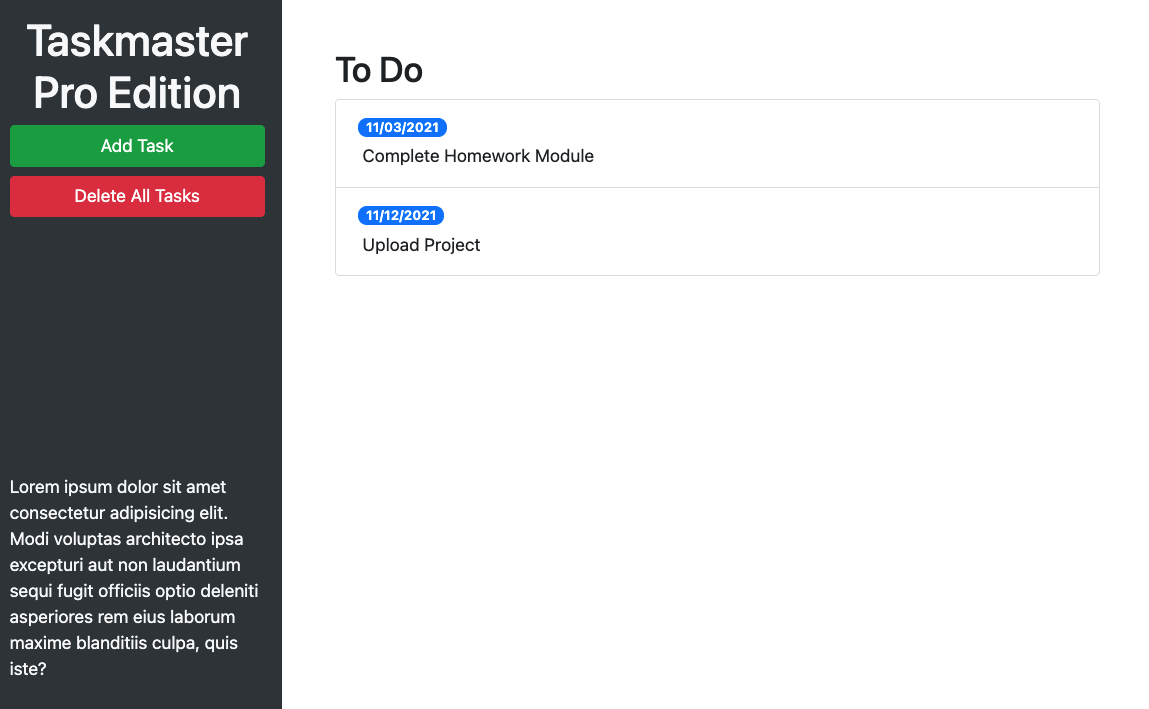
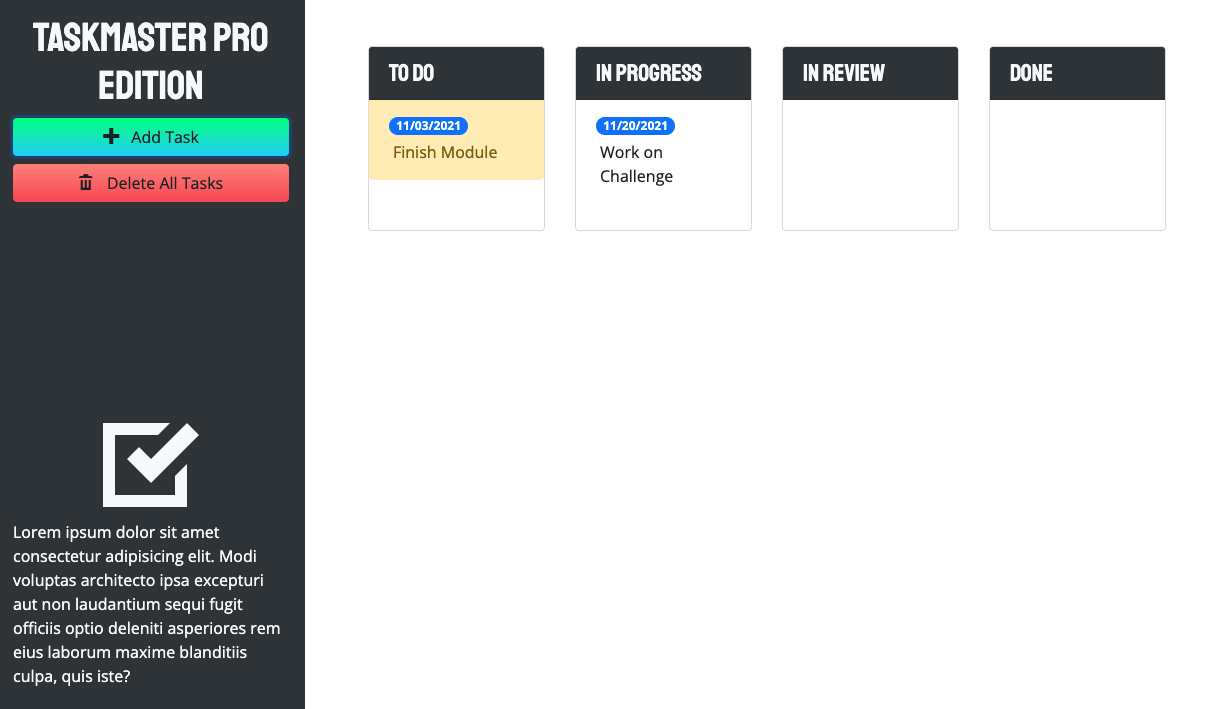
UX enhancements

Changed region(s): [[0.0, 0.0, 0.9748, 1.0]]

diff --git a/index.html b/index.html
@@ -15,6 +15,16 @@
       href="https://cdnjs.cloudflare.com/ajax/libs/jqueryui/1.12.1/themes/base/jquery-ui.min.css"
     />
 
+    <link
+      href="https://fonts.googleapis.com/css2?family=Open+Sans:wght@400;700&family=Staatliches&family=Zen+Maru+Gothic&display=swap"
+      rel="stylesheet"
+    />
+
+    <link
+      rel="stylesheet"
+      href="https://cdnjs.cloudflare.com/ajax/libs/open-iconic/1.1.1/font/css/open-iconic-bootstrap.min.css"
+    />
+
     <link rel="stylesheet" href="./assets/css/style.css" />
     <title>Taskmaster Pro</title>
   </head>
@@ -32,19 +42,34 @@
           p-4 p-lg-3
         "
       >
-        <h1 class="text-center">Taskmaster Pro Edition</h1>
+        <h1 class="text-center">
+          <span class="oi oi-task d-inline d-lg-none"></span>
+          Taskmaster Pro Edition
+        </h1>
         <button
           id="create-task"
-          class="btn btn-block btn-success"
+          class="btn btn-block btn-add"
           data-toggle="modal"
           data-target="#task-form-modal"
         >
+          <span class="oi oi-plus mr-2"></span>
           Add Task
         </button>
-        <button id="remove-tasks" class="btn btn-block btn-danger">
+        <button id="remove-tasks" class="btn btn-block btn-delete">
+          <span class="oi oi-trash mr-2"></span>
           Delete All Tasks
         </button>
-        <p class="mt-auto d-none d-lg-block">
+        <span
+          class="
+            oi oi-task
+            display-1
+            text-center
+            mb-2
+            d-none d-lg-block
+            mt-auto
+          "
+        ></span>
+        <p class="d-none d-lg-block">
           Lorem ipsum dolor sit amet consectetur adipisicing elit. Modi voluptas
           architecto ipsa excepturi aut non laudantium sequi fugit officiis
           optio deleniti asperiores rem eius laborum maxime blanditiis culpa,
@@ -91,8 +116,9 @@
           <!-- done end -->
         </div>
 
-        <div id="trash" class="mt-auto">
-          <div class="w-100 bg-danger p-3 text-center text-light display-4">
+        <div class="mt-auto overflow-hidden" id="trash">
+          <div class="w-100 p-3 text-center bottom-trash">
+            <span class="oi oi-trash"> </span>
             Drop Here to Remove
           </div>
         </div>
@@ -144,14 +170,10 @@
             </form>
           </div>
           <div class="modal-footer">
-            <button
-              type="button"
-              class="btn btn-secondary"
-              data-dismiss="modal"
-            >
+            <button type="button" class="btn btn-close" data-dismiss="modal">
               Close
             </button>
-            <button type="button" class="btn btn-primary">Save Task</button>
+            <button type="button" class="btn btn-save">Save Task</button>
           </div>
         </div>
       </div>

diff --git a/assets/js/script.js b/assets/js/script.js
@@ -48,12 +48,8 @@ var auditTask = function (taskEl) {
   // get date from task element
   var date = $(taskEl).find("span").text().trim();
 
-  console.log(date);
-
   // convert to moment object at 5:00pm
   var time = moment(date, "L").set("hour", 17);
-
-  console.log(time);
 
   // remove any old classes from element
   $(taskEl).removeClass("list-group-item-warning list-group-item-danger");
@@ -74,16 +70,18 @@ $(".card .list-group").sortable({
   tolerance: "pointer",
   helper: "clone",
   activate: function (event, ui) {
-    console.log(ui);
+    $(this).addClass("dropover");
+    $(".bottom-trash").addClass("bottom-trash-drag");
   },
   deactivate: function (event, ui) {
-    console.log(ui);
+    $(this).removeClass("dropover");
+    $(".bottom-trash").removeClass("bottom-trash-drag");
   },
   over: function (event) {
-    console.log(event);
+    $(event.target).addClass("dropover-active");
   },
   out: function (event) {
-    console.log(event);
+    $(event.target).removeClass("dropover-active");
   },
   update: function () {
     var tempArr = [];
@@ -106,9 +104,6 @@ $(".card .list-group").sortable({
     tasks[arrName] = tempArr;
     saveTasks();
   },
-  stop: function (event) {
-    $(this).removeClass("dropover");
-  },
 });
 
 // trash icon can be dropped onto
@@ -118,12 +113,14 @@ $("#trash").droppable({
   drop: function (event, ui) {
     // remove dragged element from the dom
     ui.draggable.remove();
+    $(".bottom-trash").removeClass("bottom-trash-active");
   },
   over: function (event, ui) {
     console.log(ui);
+    $(".bottom-trash").addClass("bottom-trash-active");
   },
   out: function (event, ui) {
-    console.log(ui);
+    $(".bottom-trash").removeClass("bottom-trash-active");
   },
 });
 
@@ -146,7 +143,7 @@ $("#task-form-modal").on("shown.bs.modal", function () {
 });
 
 // save button in modal was clicked
-$("#task-form-modal .btn-primary").click(function () {
+$("#task-form-modal .btn-save").click(function () {
   // get form values
   var taskText = $("#modalTaskDescription").val();
   var taskDate = $("#modalDueDate").val();
@@ -257,3 +254,10 @@ $("#remove-tasks").on("click", function () {
 
 // load tasks for the first time
 loadTasks();
+
+// audit task due dates every 30 minutes
+setInterval(function () {
+  $(".card .list-group-item").each(function () {
+    auditTask($(this));
+  });
+}, 1800000);

diff --git a/assets/css/style.css b/assets/css/style.css
@@ -1,3 +1,73 @@
+body {
+  font-family: "Open Sans", sans-serif;
+}
+
+h1,
+h2,
+h3,
+h4,
+h5,
+h6 {
+  font-family: "Staatliches", sans-serif;
+}
+
 ul.list-group {
   min-height: 130px;
+}
+
+.bottom-trash {
+  opacity: 0;
+  color: #f1f1f1;
+  font-size: 2.3rem;
+  font-family: "Staatliches", sans-serif;
+  transform: translateY(150px);
+  transition: all 0.5s ease-in-out;
+  background-color: rgba(234, 0, 39, 0.7);
+}
+
+.bottom-trash-drag {
+  transform: translateY(0);
+  opacity: 1;
+}
+
+.bottom-trash-active {
+  background-color: rgba(234, 0, 39, 1);
+}
+
+.dropover {
+  background: rgba(0, 0, 0, 0.3);
+}
+
+.dropover-active {
+  background: rgba(0, 0, 0, 0.9);
+}
+
+.btn-add,
+.btn-save {
+  background-color: #fa8bff;
+  background-image: linear-gradient(
+    45deg,
+    #fa8bff 0%,
+    #2bd2ff 52%,
+    #2bff88 90%
+  );
+  transition: all 0.5s ease-out;
+  background-size: 1px 100px;
+  background-position: 0px -10px;
+}
+
+.btn-close,
+.btn-delete {
+  transition: all 0.5s ease-out;
+  background-size: 1px 100px;
+  background-position: 1px -10px;
+  background-color: #ea0028;
+  background-image: linear-gradient(180deg, #ff9a8b 0%, #ea0028 100%);
+}
+
+.btn-save:hover,
+.btn-add:hover,
+.btn-close:hover,
+.btn-delete:hover {
+  background-position: 1px -50px;
 }

diff --git a/README.md b/README.md
@@ -1,5 +1,9 @@
 # Taskmaster-Pro
 
+Taskmaster-Pro is a simple Kanban Board that can save tasks locally. It uses a drag and drop user interface, and color coding to indicate when a due date is approaching.
+
+This improved version of the web app includes Bootstrap styles, jQuery utilization, Moment.js, and a better user experience.
+
 ## Deployment
 
 https://josh2100.github.io/taskmaster-pro/
